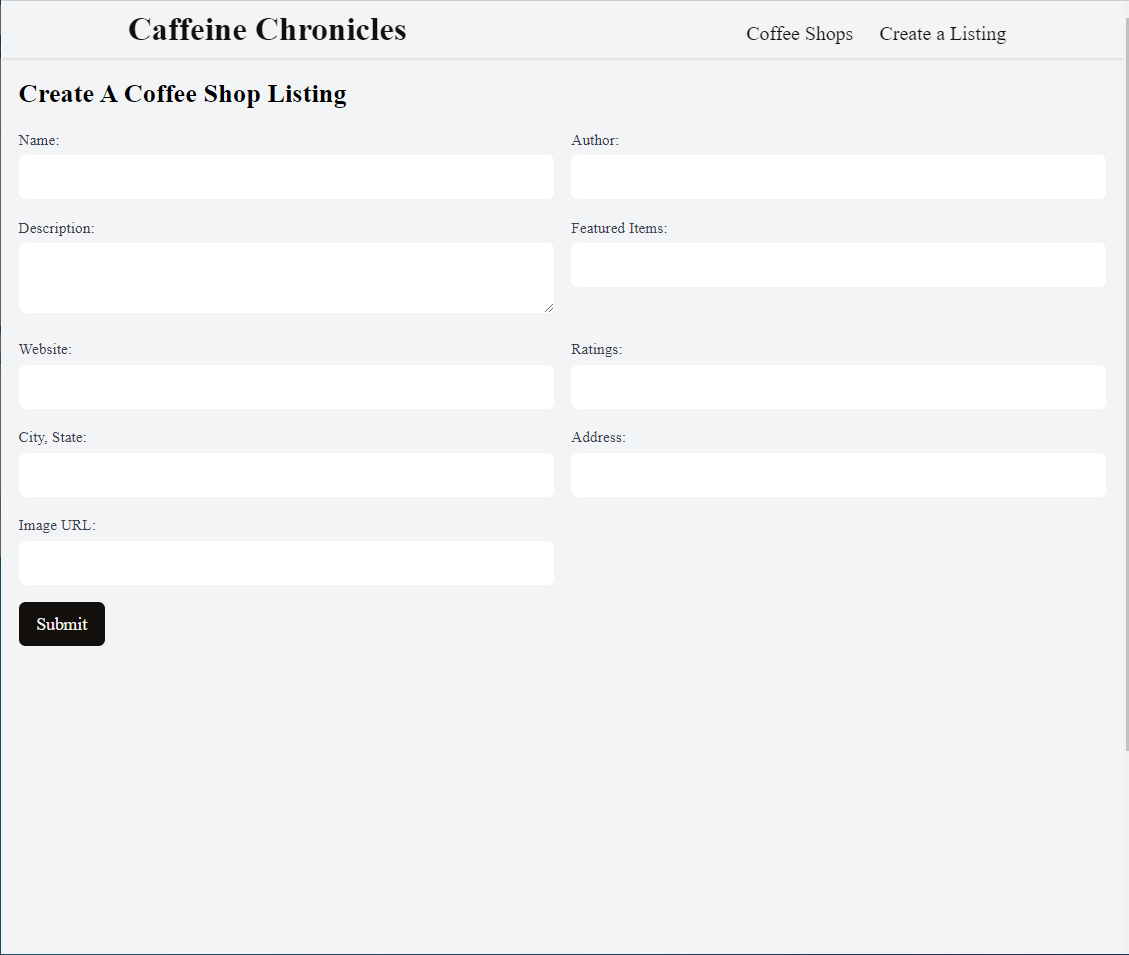
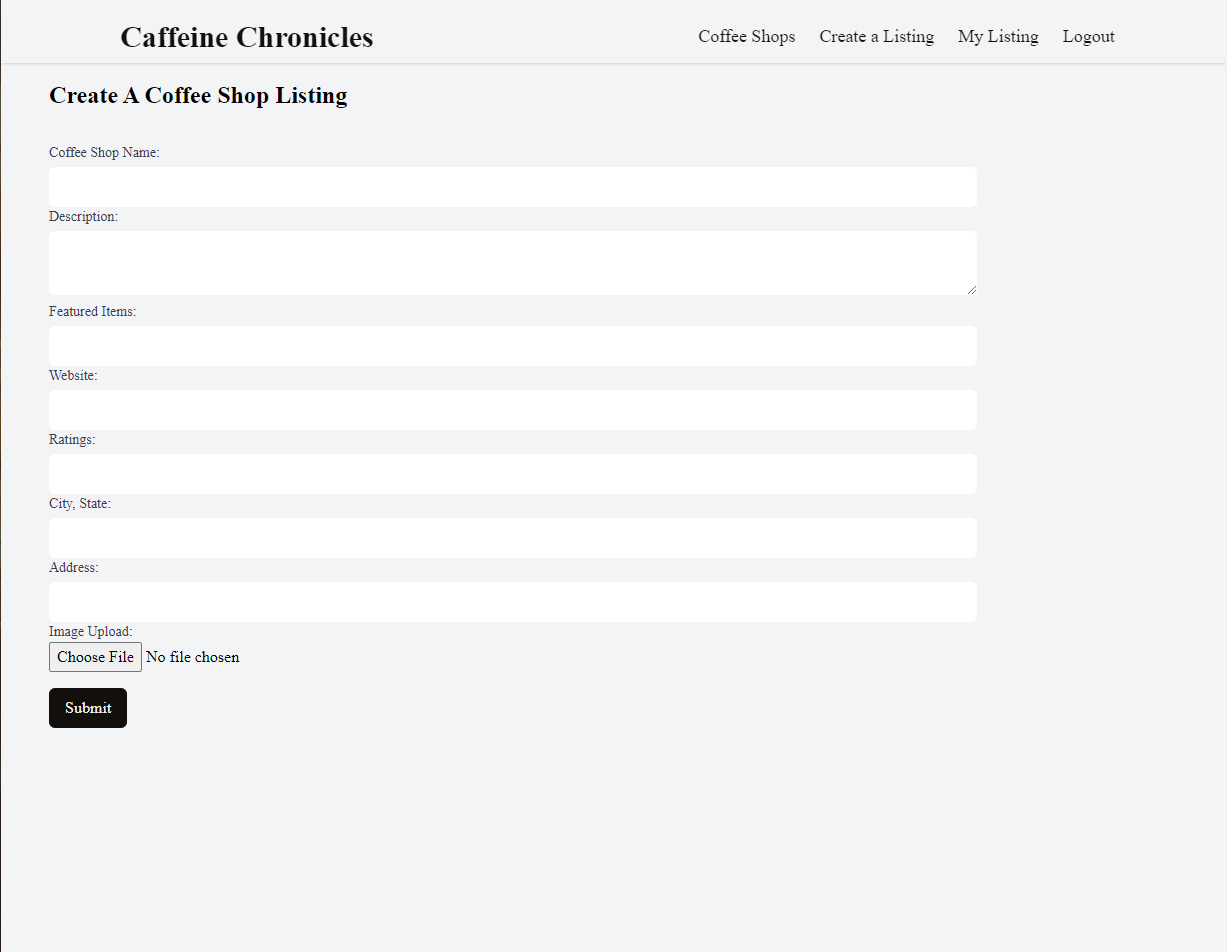
updating README

diff --git a/README.md b/README.md
@@ -1,5 +1,7 @@
-#  Caffeine Chronicles
-Welcome to Caffeine Chronicles, your go-to coffee shop blog app designed to elevate your coffee experience in the heart of the city! Whether you're a coffee connoisseur or just seeking your daily caffeine fix, Caffeine Chronicles combines the power of MongoDB, React, Express, NodeJS, HTML, CSS, and Tailwind CSS to create a seamless and user-friendly platform for discovering, updating, and enjoying your favorite coffee shops in downtown.
+#  Caffeine Chronicles ☕📝
+Welcome to Caffeine Chronicles, a web application that allows users to discover and review coffee shops. Caffeine Chronicles combines the power of MongoDB, React, Express, NodeJS, HTML, CSS, and Tailwind CSS to create a seamless and user-friendly platform for discovering, updating, and enjoying your favorite coffee shops in downtown.
+<br/>
+<br/>
 ![main](client/public/cc-main.png)![index](client/public/cc-index.png)![detail](client/public/cc-detail.png)![new](client/public/cc-create.png)
 
 
@@ -7,7 +9,8 @@ Welcome to Caffeine Chronicles, your go-to coffee shop blog app designed to elev
 
 - `Coffee Shop Discovery:` Caffeine Chronicles offers a curated selection of coffee shops, making it easy for coffee enthusiasts to explore new places and hidden gems. Discover the perfect spot to meet friends, study, or simply unwind.
 
-- `Create and Update:` If you own or manage a coffee shop in downtown, Caffeine Chronicles allows you to create and update your shop's details effortlessly. Share your menu, update descriptions, and keep your location information up-to-date to ensure that customers can find you easily.
+- `Create and Update:` If you would like to write a blog or a review, Caffeine Chronicles allows you to create and update your post effortlessly. Share featured items, update descriptions, or your location to ensure that readers can find it easily.
+- `User Authentication:` Securely register and log in to your account to access personalized features. Your profile and blog posts are now protected, ensuring your data is safe and only accessible to you.
 
 - `Location Information:` Caffeine Chronicles provides detailed location information, including maps and directions, to help users find their way to their chosen coffee shops. Never get lost in the downtown hustle and bustle again.
 
@@ -19,12 +22,10 @@ MongoDB, React, Express, NodeJS, HTML, CSS and tailwind
 ## App link  
 https://coffee-shop-blog.vercel.app/ 
 
+test user: test@gmail.com 
+, password:12345
 
 
-## Future Goals
-
-Add user features
-
-Add sorting functionality to sort by name/description and location
+With these new features, Caffeine Chronicles offers an even more immersive and personalized coffee shop discovery experience, along with the ability to create and share your own coffee adventures. Enjoy the world of coffee like never before
 
 
